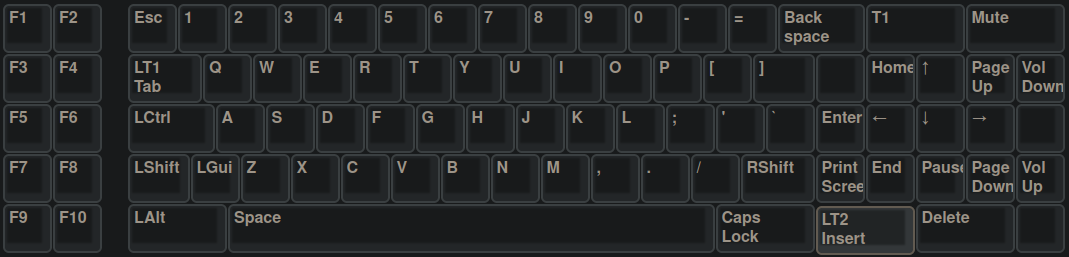
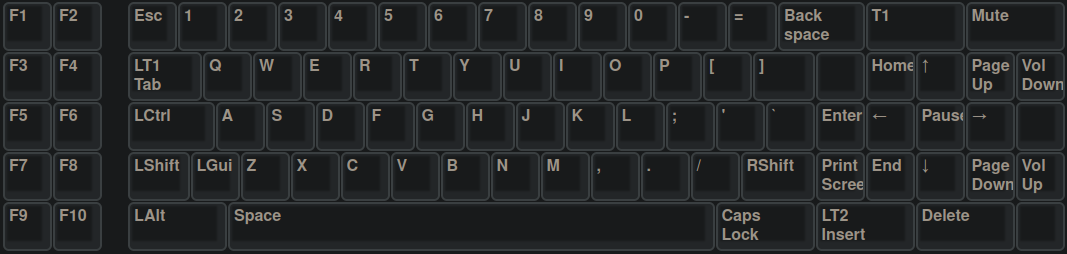
down arrow changed

diff --git a/unimap_plain.c b/unimap_plain.c
@@ -2,7 +2,7 @@
  * path:   /home/klassiker/.local/share/repos/zenith-xt-usb/unimap_plain.c
  * author: klassiker [mrdotx]
  * github: https://github.com/mrdotx/zenith-usb
- * date:   2021-02-27T20:41:34+0100
+ * date:   2021-02-27T21:05:59+0100
  */
 
 #include "unimap_trans.h"
@@ -21,8 +21,8 @@ const action_t actionmaps[][UNIMAP_ROWS][UNIMAP_COLS] PROGMEM = {
     ESC,      F1,  F2,  F3,  F4,  F5,  F6,  F7,  F8,  F9,  F10, NO,  NO,            NO,  MUTE,NO,             NO,  NO,  NO,
     GRV, 1,   2,   3,   4,   5,   6,   7,   8,   9,   0,   MINS,EQL, NO,  BSPC,     NO,  NO,  NO,      T1,    NO,PSCR,VOLD,
     LT1, Q,   W,   E,   R,   T,   Y,   U,   I,   O,   P,   LBRC,RBRC,     LGUI,     NO,  NO,  NO,      HOME,  UP,PGUP,VOLU,
-    CAPS,A,   S,   D,   F,   G,   H,   J,   K,   L,   SCLN,QUOT,     NO,  ENT,                         LEFT,DOWN,RGHT,NO,
-    LSFT,NO,  Z,   X,   C,   V,   B,   N,   M,   COMM,DOT, SLSH,     NO,  RSFT,          NO,           END, PAUS,PGDN,NO,
+    CAPS,A,   S,   D,   F,   G,   H,   J,   K,   L,   SCLN,QUOT,     NO,  ENT,                         LEFT,PAUS,RGHT,NO,
+    LSFT,NO,  Z,   X,   C,   V,   B,   N,   M,   COMM,DOT, SLSH,     NO,  RSFT,          NO,           END, DOWN,PGDN,NO,
     LCTL,NO  ,LALT,NO,            SPC,           NO,  NO,  NO  ,NO  ,NO,  NO,       NO,  NO,  NO,           LT2, DEL, NO
     ),
     /* function keys and num pad with tab key TAB(LT1) and layer toggle NUM LOCK(T1) */
@@ -41,8 +41,8 @@ const action_t actionmaps[][UNIMAP_ROWS][UNIMAP_COLS] PROGMEM = {
     TRNS,     TRNS,TRNS,TRNS,TRNS,TRNS,TRNS,TRNS,TRNS,TRNS,TRNS,NO,  NO,            NO,  TRNS,NO,           NO,  NO,  NO,
     TRNS,TRNS,TRNS,TRNS,TRNS,TRNS,TRNS,TRNS,TRNS,TRNS,TRNS,TRNS,TRNS,NO,  TRNS,     NO,  NO,  NO,      TRNS,NO,  TRNS,WH_U,
     TRNS,TRNS,TRNS,TRNS,TRNS,TRNS,TRNS,TRNS,TRNS,TRNS,TRNS,TRNS,TRNS,     TRNS,     NO,  NO,  NO,      BTN2,MS_U,BTN3,WH_D,
-    TRNS,TRNS,TRNS,TRNS,TRNS,TRNS,TRNS,TRNS,TRNS,TRNS,TRNS,TRNS,     NO,  TRNS,                        MS_L,MS_D,MS_R,NO,
-    TRNS,NO,  TRNS,TRNS,TRNS,TRNS,TRNS,TRNS,TRNS,TRNS,TRNS,TRNS,     NO,  TRNS,          NO,           BTN1,WH_L,WH_R,NO,
+    TRNS,TRNS,TRNS,TRNS,TRNS,TRNS,TRNS,TRNS,TRNS,TRNS,TRNS,TRNS,     NO,  TRNS,                        MS_L,WH_L,MS_R,NO,
+    TRNS,NO,  TRNS,TRNS,TRNS,TRNS,TRNS,TRNS,TRNS,TRNS,TRNS,TRNS,     NO,  TRNS,          NO,           BTN1,MS_D,WH_R,NO,
     TRNS,NO,  TRNS,NO,            TRNS,          NO,  NO  ,NO,  NO,  NO,  NO,       NO,  NO,  NO,           TRNS,TRNS,NO
     ),
 };
